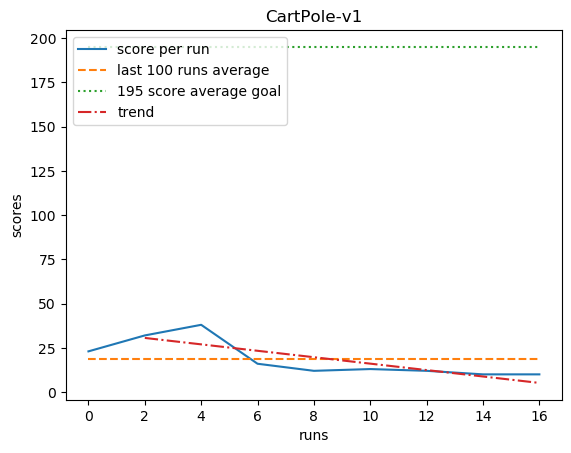
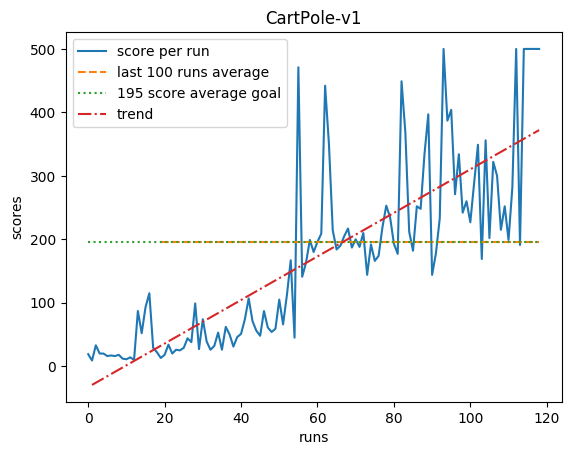
commit com as coisas do Cristóbal

Changed region(s): [[0.0, 0.0, 1.0, 0.989]]

diff --git a/cartpole.py b/cartpole.py
@@ -1,0 +1,93 @@
+import random
+import gym
+import numpy as np
+from collections import deque
+from keras.models import Sequential
+from keras.layers import Dense
+from keras.optimizers import Adam
+
+
+from scores.score_logger import ScoreLogger
+
+ENV_NAME = "CartPole-v1"
+
+GAMMA = 0.95
+LEARNING_RATE = 0.001
+
+MEMORY_SIZE = 1000000
+BATCH_SIZE = 20
+
+EXPLORATION_MAX = 1.0
+EXPLORATION_MIN = 0.01
+EXPLORATION_DECAY = 0.995
+
+
+class DQNSolver:
+
+    def __init__(self, observation_space, action_space):
+        self.exploration_rate = EXPLORATION_MAX
+
+        self.action_space = action_space
+        self.memory = deque(maxlen=MEMORY_SIZE)
+
+        self.model = Sequential()
+        self.model.add(Dense(24, input_shape=(observation_space,), activation="relu"))
+        self.model.add(Dense(24, activation="relu"))
+        self.model.add(Dense(self.action_space, activation="linear"))
+        self.model.compile(loss="mse", optimizer=Adam(lr=LEARNING_RATE))
+
+    def remember(self, state, action, reward, next_state, done):
+        self.memory.append((state, action, reward, next_state, done))
+
+    def act(self, state):
+        if np.random.rand() < self.exploration_rate:
+            return random.randrange(self.action_space)
+        q_values = self.model.predict(state)
+        return np.argmax(q_values[0])
+
+    def experience_replay(self):
+        if len(self.memory) < BATCH_SIZE:
+            return
+        batch = random.sample(self.memory, BATCH_SIZE)
+        for state, action, reward, state_next, terminal in batch:
+            q_update = reward
+            if not terminal:
+                q_update = (reward + GAMMA * np.amax(self.model.predict(state_next)[0]))
+            q_values = self.model.predict(state)
+            q_values[0][action] = q_update
+            self.model.fit(state, q_values, verbose=0)
+        self.exploration_rate *= EXPLORATION_DECAY
+        self.exploration_rate = max(EXPLORATION_MIN, self.exploration_rate)
+
+
+def cartpole():
+    env = gym.make(ENV_NAME)
+    score_logger = ScoreLogger(ENV_NAME)
+    observation_space = env.observation_space.shape[0]
+    action_space = env.action_space.n
+    dqn_solver = DQNSolver(observation_space, action_space)
+    run = 0
+    while True:
+        run += 1
+        state = env.reset()
+        state = np.reshape(state, [1, observation_space])
+        step = 0
+        while True:
+            step += 1
+            #env.render()
+            action = dqn_solver.act(state)
+            state_next, reward, terminal, info = env.step(action)
+            reward = 1/(abs(state_next[2])+0.1)
+            reward = reward if not terminal else -100
+            state_next = np.reshape(state_next, [1, observation_space])
+            dqn_solver.remember(state, action, reward, state_next, terminal)
+            state = state_next
+            if terminal:
+                print("Run: " + str(run) + ", exploration: " + str(dqn_solver.exploration_rate) + ", score: " + str(step))
+                score_logger.add_score(step, run)
+                break
+            dqn_solver.experience_replay()
+
+
+if __name__ == "__main__":
+    cartpole()

diff --git a/scores/score_logger.py b/scores/score_logger.py
@@ -60,9 +60,8 @@ class ScoreLogger:
             reader = csv.reader(scores)
             data = list(reader)
             for i in range(0, len(data)):
-                if len(data[i]) > 0:
-                    x.append(int(i))
-                    y.append(int(data[i][0]))
+                x.append(int(i))
+                y.append(int(data[i][0]))
 
         plt.subplots()
         plt.plot(x, y, label="score per run")

diff --git a/README (2).md b/README (2).md
@@ -1,0 +1,69 @@
+<h3 align="center">
+  <img src="assets/cartpole_icon_web.png" width="300">
+</h3>
+
+# Cartpole
+
+Reinforcement Learning solution of the [OpenAI's Cartpole](https://gym.openai.com/envs/CartPole-v0/).
+
+Check out corresponding Medium article: [Cartpole - Introduction to Reinforcement Learning (DQN - Deep Q-Learning)](https://towardsdatascience.com/cartpole-introduction-to-reinforcement-learning-ed0eb5b58288)
+
+## About
+
+> A pole is attached by an un-actuated joint to a cart, which moves along a frictionless track. The system is controlled by applying a force of +1 or -1 to the cart. The pendulum starts upright, and the goal is to prevent it from falling over. A reward of +1 is provided for every timestep that the pole remains upright. The episode ends when the pole is more than 15 degrees from vertical, or the cart moves more than 2.4 units from the center. [source](https://gym.openai.com/envs/CartPole-v0/)
+
+## DQN
+Standard DQN with Experience Replay.
+
+### Hyperparameters:
+
+* GAMMA = 0.95
+* LEARNING_RATE = 0.001
+* MEMORY_SIZE = 1000000
+* BATCH_SIZE = 20
+* EXPLORATION_MAX = 1.0
+* EXPLORATION_MIN = 0.01
+* EXPLORATION_DECAY = 0.995
+
+### Model structure:
+
+1. Dense layer - input: **4**, output: **24**, activation: **relu**
+2. Dense layer - input **24**, output: **24**, activation: **relu**
+3. Dense layer - input **24**, output: **2**, activation: **linear**
+
+* **MSE** loss function
+* **Adam** optimizer
+
+
+## Performance
+
+> CartPole-v0 defines "solving" as getting average reward of 195.0 over 100 consecutive trials. [source](https://gym.openai.com/envs/CartPole-v0/)
+> 
+
+##### Example trial gif
+
+<img src="assets/cartpole_example.gif" width="200">
+
+
+##### Example trial chart
+
+<img src="scores/scores.png">
+
+##### Solved trials chart
+
+<img src="scores/solved.png">
+
+## Author
+
+**Greg (Grzegorz) Surma**
+
+[**PORTFOLIO**](https://gsurma.github.io)
+
+[**GITHUB**](https://github.com/gsurma)
+
+[**BLOG**](https://medium.com/@gsurma)
+
+<a href="https://www.paypal.com/paypalme2/grzegorzsurma115">
+  <img alt="Support via PayPal" src="https://cdn.rawgit.com/twolfson/paypal-github-button/1.0.0/dist/button.svg"/>
+</a>
+
